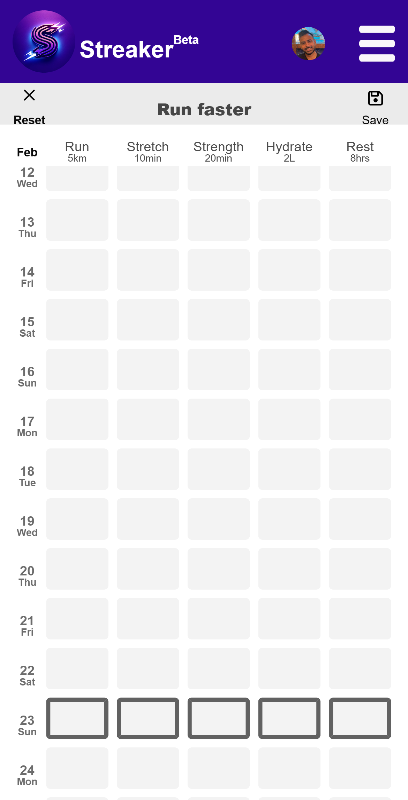
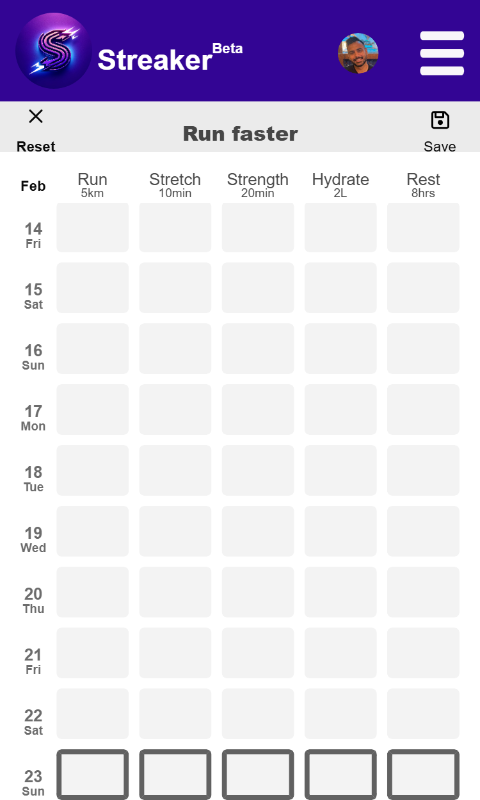
Enhance MainLayout and ScreenshotButton to dynamically adjust footer height and improve screenshot functionality

diff --git a/components/v1/ScreenshotButton.jsx b/components/v1/ScreenshotButton.jsx
@@ -1,4 +1,5 @@
 "use client";
+
 import { useState } from "react";
 import html2canvas from "html2canvas";
 import ThreeDButton from "../ui/button/3DButton";
@@ -6,16 +7,16 @@ import ThreeDButton from "../ui/button/3DButton";
 const ScreenshotButton = () => {
   const [screenshotUrl, setScreenshotUrl] = useState("");
 
-  // Capture the entire document body
+  // 1. Capture the entire document body, scaled for higher resolution
   const captureViewport = async () => {
     const canvas = await html2canvas(document.body, {
-      scale: window.devicePixelRatio,
+      scale: window.devicePixelRatio || 1,
       useCORS: true,
     });
     return canvas;
   };
 
-  // Crop a canvas: crop area defined by (cropX, cropY, cropWidth, cropHeight)
+  // 2. Crop a canvas to a given region
   const cropCanvas = (sourceCanvas, cropX, cropY, cropWidth, cropHeight) => {
     const croppedCanvas = document.createElement("canvas");
     croppedCanvas.width = cropWidth;
@@ -24,20 +25,20 @@ const ScreenshotButton = () => {
 
     ctx.drawImage(
       sourceCanvas,
-      cropX,       // source x
-      cropY,       // source y
-      cropWidth,   // source width (the area we want to crop)
-      cropHeight,  // source height (original height minus 220px)
-      0,           // destination x
-      0,           // destination y
-      cropWidth,   // destination width
-      cropHeight   // destination height
+      cropX,         // source x
+      cropY,         // source y
+      cropWidth,     // source width
+      cropHeight,    // source height
+      0,             // destination x
+      0,             // destination y
+      cropWidth,     // destination width
+      cropHeight     // destination height
     );
 
     return croppedCanvas;
   };
 
-  // Resize a canvas to a specific target resolution (408x800)
+  // 3. Resize a canvas to a specific target resolution (e.g., 480×800)
   const resizeCanvas = (sourceCanvas, targetWidth, targetHeight) => {
     const resizedCanvas = document.createElement("canvas");
     resizedCanvas.width = targetWidth;
@@ -61,25 +62,38 @@ const ScreenshotButton = () => {
 
   const handleSaveScreenshot = async () => {
     try {
-      // 1. Capture the full viewport
+      // A) Capture the full page
       const fullCanvas = await captureViewport();
 
-      // 2. Crop the canvas: remove 220px from the height
+      // B) Find the footer's top position (if it exists)
+      let scaledFooterTop = fullCanvas.height; // default: no footer, capture entire canvas
+      const footerElement = document.getElementById("footer");
+      if (footerElement) {
+        // getBoundingClientRect().top + scrollY = the footer’s top in page coordinates
+        const rect = footerElement.getBoundingClientRect();
+        const footerTop = rect.top + window.scrollY;
+
+        // Multiply by the same scale we used for the screenshot
+        const scale = window.devicePixelRatio || 1;
+        scaledFooterTop = Math.floor(footerTop * scale);
+      }
+
+      // C) Crop the canvas from the top to the footer’s top
       const cropX = 0;
       const cropY = 0;
       const cropWidth = fullCanvas.width;
-      const cropHeight = fullCanvas.height - 220; // your custom height adjustment
+      const cropHeight = scaledFooterTop; 
       const croppedCanvas = cropCanvas(fullCanvas, cropX, cropY, cropWidth, cropHeight);
 
-      // 3. Resize the cropped canvas to exactly 408×800 pixels
+      // D) Resize to exactly 480×800 (optional)
       const targetWidth = 480;
       const targetHeight = 800;
       const finalCanvas = resizeCanvas(croppedCanvas, targetWidth, targetHeight);
 
-      // 4. Convert the final canvas to an image data URL
+      // E) Convert the final canvas to a data URL
       const imageData = finalCanvas.toDataURL("image/png");
 
-      // 5. Post the image data to your API route
+      // F) Upload the screenshot to your API route
       const res = await fetch("/api/v2/upload-screenshot", {
         method: "POST",
         headers: {
@@ -99,12 +113,6 @@ const ScreenshotButton = () => {
   return (
     <div>
       <ThreeDButton onClick={handleSaveScreenshot}>Send to display</ThreeDButton>
-      {/* {screenshotUrl && (
-        <div>
-          <h3>Screenshot Saved:</h3>
-          <img src={screenshotUrl} alt="Screenshot" />
-        </div>
-      )} */}
     </div>
   );
 };

diff --git a/components/MainLayout.jsx b/components/MainLayout.jsx
@@ -5,10 +5,23 @@ import { usePathname } from "next/navigation";
 import { Toaster } from "./ui/toaster";
 import ScreenshotButton from "./v1/ScreenshotButton";
 import { useKindeBrowserClient } from "@kinde-oss/kinde-auth-nextjs";
+import { useRef, useEffect, useState } from "react";
 
 export default function MainLayout({ children }) {
   const pathname = usePathname();
   const { isAuthenticated , user } = useKindeBrowserClient();
+  const [footerHeight, setFooterHeight] = useState(0);
+  const footerRef = useRef(null);
+
+  useEffect(() => {
+    const handleFooterHeight = () => {
+      setFooterHeight(footerRef.current.clientHeight * 2);
+    }
+    handleFooterHeight();
+    console.log('footerHeight', footerHeight);
+    window.addEventListener('resize', handleFooterHeight);
+    return () => window.removeEventListener('resize', handleFooterHeight);
+  }, [footerHeight]);
 
   if (pathname === "/") {
     return (
@@ -55,7 +68,7 @@ export default function MainLayout({ children }) {
           <Header />
           {children}
         </div>
-        <footer className="flex flex-col justify-center w-full items-center sm:items-end sm:pr-6 z-[0] absolute bottom-0 max-w-[1480px] bg-[#EBEBEB] sm:hidden">{user?.email === 'nandantyagi@gmail.com' && <ScreenshotButton/>}</footer>
+        <footer id="footer" ref={footerRef} className="flex flex-col justify-center w-full items-center sm:items-end sm:pr-6 z-[0] absolute bottom-0 max-w-[1480px] bg-[#EBEBEB] sm:hidden">{user?.email === 'nandantyagi@gmail.com' && <ScreenshotButton footerHeight={footerHeight}/>}</footer>
       </div>
     );
   } else if (pathname === "/dashboard") {

diff --git a/components/StreakerGridItem.jsx b/components/StreakerGridItem.jsx
@@ -91,17 +91,17 @@ const StreakerGridItem = ({
     if (todaysDate == rowNr) {
       setIsTodayLocal(true);
     }
-    // if (todayRef.current !== null) {
-    //   todayRef.current.scrollIntoView({ behavior: "smooth", block: "end" });
-    // }
+    if (todayRef.current !== null) {
+      todayRef.current.scrollIntoView({ behavior: "smooth", block: "end" });
+    }
 
     if (parseInt(todaysDate) + 2 === parseInt(rowNr)) {
       setIsTwoDaysFromTodayLocal(true);
     }
 
-    if (twoDaysFromTodayRef.current !== null) {
-      twoDaysFromTodayRef.current.scrollIntoView({ behavior: "smooth", block: "end" });
-    }
+    // if (twoDaysFromTodayRef.current !== null) {
+    //   twoDaysFromTodayRef.current.scrollIntoView({ behavior: "smooth", block: "end" });
+    // }
   }, [isTodayLocal, rowNr, todaysDate, isTwoDaysFromTodayLocal]);
 
   const handelCells = (cellProps) => {
